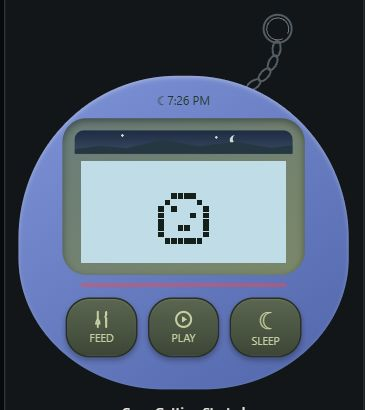
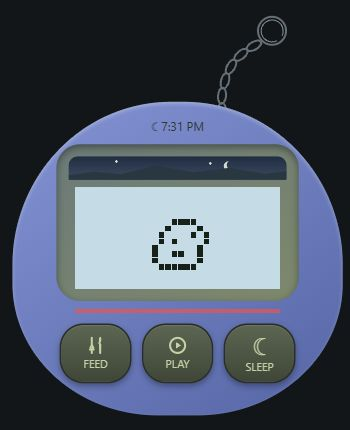
adjust the chain curve

diff --git a/pets/game.html b/pets/game.html
@@ -13,15 +13,17 @@
 
 
 <div id="device">
-  <svg class="keychain" viewBox="0 0 66 104" aria-hidden="true" focusable="false">
+  <svg class="keychain" viewBox="0 0 84 128" aria-hidden="true" focusable="false">
     <g fill="none" stroke="#77838b" stroke-width="2">
-      <circle cx="48" cy="17" r="14"/>
-      <path d="M53 27a11 11 0 1 1 5-5" stroke-width="1" stroke="#a3adb4"/>
-      <ellipse cx="47" cy="37" rx="4" ry="8" transform="rotate(5 47 37)"/>
-      <ellipse cx="43" cy="51" rx="4" ry="8" transform="rotate(25 43 51)"/>
-      <ellipse cx="35" cy="63" rx="4" ry="8" transform="rotate(42 35 63)"/>
-      <ellipse cx="24" cy="73" rx="4" ry="8" transform="rotate(55 24 73)"/>
-      <ellipse cx="12" cy="81" rx="4" ry="8" transform="rotate(60 12 81)"/>
+      <circle cx="66" cy="17" r="14"/>
+      <path d="M71 27a11 11 0 1 1 5-5" stroke-width="1" stroke="#a3adb4"/>
+      <ellipse cx="48" cy="32" rx="4" ry="8" transform="rotate(60 48 32)"/>
+      <ellipse cx="35" cy="41" rx="4" ry="8" transform="rotate(50 35 41)"/>
+      <ellipse cx="25" cy="53" rx="4" ry="8" transform="rotate(30 25 53)"/>
+      <ellipse cx="19" cy="67" rx="4" ry="8" transform="rotate(15 19 67)"/>
+      <ellipse cx="16" cy="82" rx="4" ry="8" transform="rotate(5 16 82)"/>
+      <ellipse cx="16" cy="97" rx="4" ry="8" transform="rotate(0 16 97)"/>
+      <ellipse cx="18" cy="112" rx="4" ry="8" transform="rotate(-10 18 112)"/>
     </g>
   </svg>
 <div id="egg-shell">

diff --git a/pets/embed.css b/pets/embed.css
@@ -44,9 +44,9 @@ html[data-embedded="true"] #settings-btn { top:2px; right:calc(50% - 22px); }
 html[data-embedded="true"] #device,#device { padding:0; border-radius:0; background:transparent; box-shadow:none; width:100%; }
 #egg-shell { box-sizing:border-box; width:100%; padding:42px 14px 32px; position:relative; display:flex; flex-direction:column; align-items:center; border-radius:48% 48% 44% 44% / 52% 52% 42% 42%; background:var(--device-bg); box-shadow:var(--device-inset); }
 #pet-clock { position:absolute; top:17px; left:0; right:0; text-align:center; font:12px/1.3 system-ui,sans-serif; color:#28352b; }
-.keychain { position:absolute; width:66px; height:104px; top:0; right:16%; pointer-events:none; opacity:.65; }
+.keychain { position:absolute; width:84px; height:128px; top:0; right:16%; pointer-events:none; opacity:.82; }
 #device { position:relative; isolation:isolate; }
-#egg-shell { margin-top:64px; z-index:1; }
+#egg-shell { margin-top:88px; z-index:1; }
 html[data-embedded="true"] #settings-btn { top:5px; right:23%; width:44px; height:44px; font-size:19px; opacity:1; color:#28352b; }
 #screen-frame { position:relative; width:80%; padding:12px; border-radius:24px; overflow:visible; background:linear-gradient(150deg,var(--scene-top,#a8b69a),var(--screen-frame)); }
 #lcd { border-radius:0; position:relative; }
